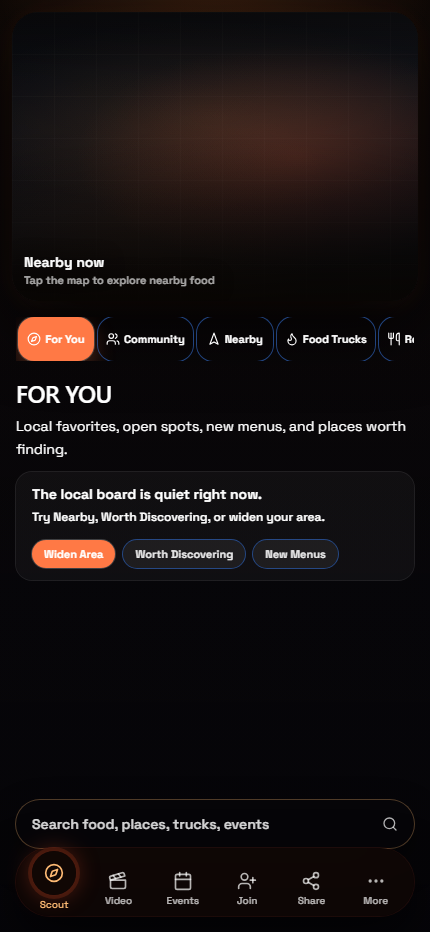
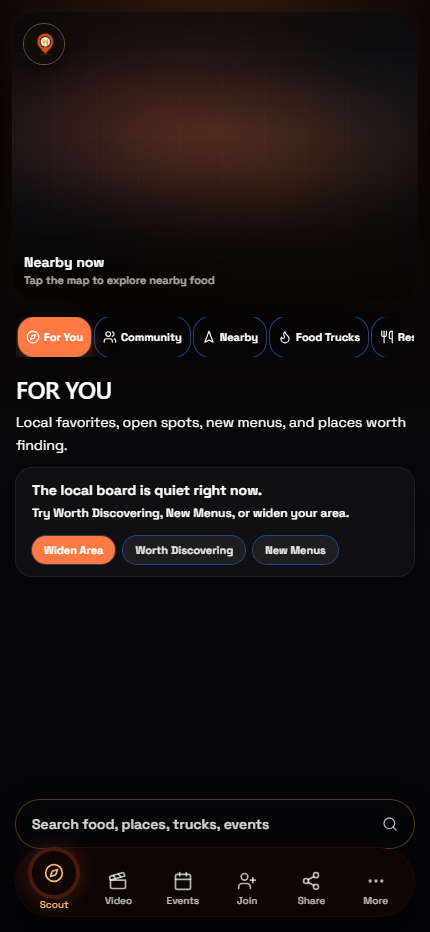
Scout admin-only Pensacola preview override for screenshot context

Changed region(s): [[0.0302, 0.3423, 0.9674, 0.6223], [0.0907, 0.0311, 0.1512, 0.0622]]

diff --git a/client/src/pages/explore-preview.tsx b/client/src/pages/explore-preview.tsx
@@ -1504,7 +1504,7 @@ function shiftCenterForRightQuadrant(
 
 export default function ExplorePreview() {
   const { user } = useAuth();
-  const [, navigate] = useWouterLocation();
+  const [location, navigate] = useWouterLocation();
 
   const firstName =
     typeof user?.name === "string" && user.name.trim().length > 0
@@ -1526,8 +1526,27 @@ export default function ExplorePreview() {
     () => DAYPART_DEFAULT_INTENT[getDaypart()],
   );
   const [activeSceneLaneId, setActiveSceneLaneId] = useState<ScoutSceneLaneId>("for_you");
+  const userType = String((user as any)?.userType || "").toLowerCase();
+  const isScoutPreviewEligible = userType === "super_admin" || userType === "admin" || userType === "duper_admin";
+  const scoutPreviewCity = useMemo(() => {
+    const query = location.includes("?") ? location.slice(location.indexOf("?") + 1) : "";
+    const params = new URLSearchParams(query);
+    const raw = (params.get("scoutPreview") || params.get("previewCity") || "").trim().toLowerCase();
+    return raw;
+  }, [location]);
+  const isPensacolaScoutPreview = isScoutPreviewEligible && scoutPreviewCity === "pensacola";
+  const previewCoords = useMemo(
+    () => (isPensacolaScoutPreview ? { lat: 30.4213, lng: -87.2169 } : null),
+    [isPensacolaScoutPreview],
+  );
 
   const requestLocation = useCallback(() => {
+    if (isPensacolaScoutPreview && previewCoords) {
+      setCoords(previewCoords);
+      setLocationName("Pensacola");
+      setLocationStatus("ready");
+      return;
+    }
     if (typeof navigator === "undefined" || !navigator.geolocation) {
       setLocationStatus("denied");
       return;
@@ -1547,7 +1566,7 @@ export default function ExplorePreview() {
       },
       { timeout: 10000, maximumAge: 0 },
     );
-  }, []);
+  }, [isPensacolaScoutPreview, previewCoords]);
 
   // Auto-request on mount
   useEffect(() => {
@@ -2893,7 +2912,7 @@ export default function ExplorePreview() {
               className="absolute inset-0 pointer-events-none"
               style={{
                 backgroundImage:
-                  "linear-gradient(180deg, rgba(8,5,2,0.42) 0%, rgba(8,5,2,0.08) 22%, rgba(8,5,2,0.00) 46%), radial-gradient(120% 60% at 50% 36%, rgba(255,168,86,0.10), transparent 55%)",
+                  "linear-gradient(180deg, rgba(11,8,6,0.62) 0%, rgba(10,7,5,0.22) 26%, rgba(8,6,10,0.04) 54%, rgba(8,6,10,0.58) 100%), radial-gradient(110% 64% at 50% 42%, rgba(255,136,70,0.18), rgba(255,136,70,0.00) 60%), radial-gradient(100% 50% at 50% -8%, rgba(255,111,46,0.12), rgba(255,111,46,0) 56%)",
               }}
             />
           )}
@@ -2979,6 +2998,11 @@ export default function ExplorePreview() {
           {/* Compact map footer. Keep the collapsed map mostly clear. */}
           {sheetState === "default" && (
             <>
+              <div className="absolute left-3 top-3 z-20">
+                <span className="inline-flex h-10 w-10 items-center justify-center rounded-full bg-[#100c0a]/80 ring-1 ring-orange-200/35 backdrop-blur-xl shadow-[0_10px_24px_rgba(0,0,0,0.42)]">
+                  <img src={mealScoutIcon} alt="MealScout" className="h-6 w-6 object-contain" />
+                </span>
+              </div>
               <MapActivityPips
                 mode={scoutActivityMode}
                 truckCount={trucksServingNow.length}
@@ -2996,6 +3020,11 @@ export default function ExplorePreview() {
               />
               <div className="absolute bottom-3 left-3 right-3 z-20 flex items-end justify-between gap-3">
                 <div className="min-w-0">
+                  {isPensacolaScoutPreview ? (
+                    <p className="mb-1 inline-flex rounded-full bg-orange-500/18 px-2 py-0.5 text-[10px] font-black uppercase tracking-[0.12em] text-orange-100 ring-1 ring-orange-200/28">
+                      Admin preview
+                    </p>
+                  ) : null}
                   <p className="truncate text-sm font-extrabold text-white drop-shadow-[0_2px_10px_rgba(0,0,0,0.7)]">
                     {hasResolvedLocation ? shortLocation : "Nearby now"}
                   </p>
@@ -3357,22 +3386,79 @@ function ActiveSceneContent({
     }
     if (visibleMoreFoodRestaurants.length > 0) {
       return (
-        <section className={railSectionClass}>
+        <section className="px-4 pb-6">
           <SectionHeader
             title="Worth Discovering"
             linkHref={DISCOVERY_LAYERS.restaurants.href}
             subtitle="New, quiet, or under-scouted spots nearby."
             itemCount={visibleMoreFoodRestaurants.length}
           />
-          <div className="overflow-x-auto atmo-hide-scrollbar -mr-1">
-            <ul className="flex gap-4 pr-5" role="list" aria-label="Worth discovering">
-              {visibleMoreFoodRestaurants.slice(0, 10).map((r) => (
-                <li key={`for-you-worth-${r.id}`} className={`shrink-0 ${standardCardWidth}`}>
-                  <SavedRestaurantCard restaurant={r} />
+          <ul className="space-y-2.5" role="list" aria-label="Worth discovering">
+            {visibleMoreFoodRestaurants.slice(0, 8).map((restaurant) => {
+              const name = getRestaurantName(restaurant);
+              const cuisine = restaurant.cuisineType || "Local food";
+              const location = [restaurant.neighborhood, restaurant.city].filter(Boolean).join(" · ");
+              const label =
+                restaurant.activeDealsCount || restaurant.activeDealCount
+                  ? "Open now nearby"
+                  : "Under-scouted";
+              const lat =
+                typeof restaurant.latitude === "number"
+                  ? restaurant.latitude
+                  : typeof restaurant.lat === "number"
+                    ? restaurant.lat
+                    : null;
+              const lng =
+                typeof restaurant.longitude === "number"
+                  ? restaurant.longitude
+                  : typeof restaurant.lng === "number"
+                    ? restaurant.lng
+                    : null;
+              const routeUrl =
+                typeof lat === "number" && typeof lng === "number"
+                  ? `https://www.google.com/maps/dir/?api=1&destination=${lat},${lng}&travelmode=driving`
+                  : null;
+              return (
+                <li key={`for-you-worth-${restaurant.id}`}>
+                  <div className="rounded-2xl bg-[#101219]/82 p-3 ring-1 ring-white/12">
+                    <p className="truncate text-base font-semibold text-white">{name}</p>
+                    <p className="mt-0.5 truncate text-xs text-white/65">
+                      {cuisine}{location ? ` · ${location}` : ""}
+                    </p>
+                    <div className="mt-2 flex flex-wrap items-center gap-2">
+                      <span className="rounded-full bg-orange-300/14 px-2 py-1 text-[10px] font-bold text-orange-100 ring-1 ring-orange-200/25">
+                        {label}
+                      </span>
+                      <Link
+                        href={`/restaurant/${restaurant.id}`}
+                        className="rounded-full bg-white/10 px-2.5 py-1 text-[10px] font-bold text-white ring-1 ring-white/20"
+                      >
+                        View
+                      </Link>
+                      {routeUrl ? (
+                        <a
+                          href={routeUrl}
+                          target="_blank"
+                          rel="noreferrer"
+                          className="rounded-full bg-white/10 px-2.5 py-1 text-[10px] font-bold text-white ring-1 ring-white/20"
+                        >
+                          Route
+                        </a>
+                      ) : null}
+                      {isSignedIn ? (
+                        <Link
+                          href={`/restaurant/${restaurant.id}`}
+                          className="rounded-full bg-white/10 px-2.5 py-1 text-[10px] font-bold text-white ring-1 ring-white/20"
+                        >
+                          Save
+                        </Link>
+                      ) : null}
+                    </div>
+                  </div>
                 </li>
-              ))}
-            </ul>
-          </div>
+              );
+            })}
+          </ul>
         </section>
       );
     }

diff --git a/client/src/components/scout/SceneOptionsBar.tsx b/client/src/components/scout/SceneOptionsBar.tsx
@@ -29,7 +29,7 @@ export function SceneOptionsBar({
                 type="button"
                 onClick={() => onSceneLaneSelect(lane.id)}
                 className={[
-                  "inline-flex min-h-11 min-w-[76px] shrink-0 items-center justify-center gap-1 rounded-2xl px-2 py-2 text-[11px] font-bold ring-1 transition-colors active:scale-95 focus:outline-none focus-visible:ring-2 focus-visible:ring-orange-300/60",
+                  "inline-flex min-h-10 min-w-[72px] shrink-0 items-center justify-center gap-1 rounded-2xl px-2 py-2 text-[11px] font-bold ring-1 transition-colors active:scale-95 focus:outline-none focus-visible:ring-2 focus-visible:ring-orange-300/60",
                   isActive
                     ? "bg-[#ff7945] text-white ring-white/20 shadow-[0_10px_22px_rgba(255,121,69,0.28)]"
                     : "bg-[#11131a]/82 text-white/78 ring-white/12 hover:bg-[#171a23] hover:text-white",

diff --git a/client/src/components/scout/ScoutSearchDock.tsx b/client/src/components/scout/ScoutSearchDock.tsx
@@ -1,4 +1,5 @@
 import { Link } from "wouter";
+import { Search } from "lucide-react";
 
 export function ScoutSearchDock() {
   return (
@@ -9,7 +10,7 @@ export function ScoutSearchDock() {
         aria-label="Search food, places, trucks, events"
       >
         <span className="truncate">Search food, places, trucks, events</span>
-        <span className="h-4 w-4 shrink-0 text-white/70" aria-hidden="true">⌕</span>
+        <Search className="h-4 w-4 shrink-0 text-white/70" aria-hidden="true" />
       </Link>
     </div>
   );
